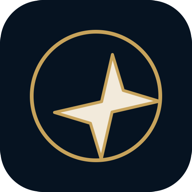
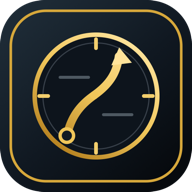
feat: personalize Reha-Kompass release candidate

Changed region(s): [[0.1562, 0.1562, 0.8438, 0.8438], [0.0, 0.0, 1.0, 1.0], [0.3125, 0.375, 0.4688, 0.4375]]

diff --git a/public/styles.css b/public/styles.css
@@ -1,20 +1,20 @@
 :root {
   color-scheme: dark;
-  --ink: #020b15;
-  --navy: #041524;
-  --blue: #08223a;
-  --blue-2: #0d2e4b;
-  --panel: #092239;
-  --panel-soft: #0d2a43;
-  --gold: #d2aa55;
-  --gold-bright: #f0d58f;
-  --ivory: #f4eee2;
-  --muted: #aeb9c4;
-  --line: rgba(210, 170, 85, .62);
-  --soft-line: rgba(210, 170, 85, .25);
+  --ink: #070a0e;
+  --navy: #0d141c;
+  --blue: #14202a;
+  --blue-2: #1c2a35;
+  --panel: #111922;
+  --panel-soft: #18232d;
+  --gold: #d8a938;
+  --gold-bright: #ffdc73;
+  --ivory: #f5f0e6;
+  --muted: #b7bec6;
+  --line: rgba(225, 178, 65, .82);
+  --soft-line: rgba(225, 178, 65, .34);
   --ok: #9dc8ae;
   --danger: #efadad;
-  --focus: #fff0b9;
+  --focus: #ffe9a3;
   --radius: 24px;
   --shadow: 0 24px 70px rgba(0, 0, 0, .34);
   font-family: Inter, ui-sans-serif, -apple-system, BlinkMacSystemFont, "Segoe UI", sans-serif;
@@ -22,8 +22,8 @@
 
 * { box-sizing: border-box; }
 html { scroll-behavior: smooth; }
-body { margin: 0; min-height: 100vh; min-height: 100dvh; background: radial-gradient(circle at 85% 0, rgba(24, 77, 118, .34), transparent 34rem), linear-gradient(180deg, #061827 0%, var(--ink) 70%); color: var(--ivory); }
-body::before { content: ""; position: fixed; inset: 0; pointer-events: none; opacity: .28; background: linear-gradient(90deg, transparent 49.8%, rgba(210,170,85,.08) 50%, transparent 50.2%); background-size: 96px 100%; }
+body { margin: 0; min-height: 100vh; min-height: 100dvh; background: radial-gradient(circle at 82% -8%, rgba(69, 91, 109, .36), transparent 33rem), radial-gradient(circle at 8% 32%, rgba(32, 49, 63, .28), transparent 28rem), linear-gradient(180deg, #101720 0%, var(--ink) 72%); color: var(--ivory); }
+body::before { content: ""; position: fixed; inset: 0; pointer-events: none; opacity: .32; background: linear-gradient(90deg, transparent 49.8%, rgba(225,178,65,.09) 50%, transparent 50.2%); background-size: 96px 100%; }
 button, input, textarea, select { font: inherit; }
 button, a { -webkit-tap-highlight-color: transparent; }
 button { cursor: pointer; }
@@ -35,10 +35,15 @@ a { color: inherit; }
 .offline-banner { position: fixed; inset: 0 0 auto; z-index: 100; padding: 8px 16px; background: var(--gold); color: var(--ink); text-align: center; font-weight: 700; }
 
 .lock-screen { min-height: 100vh; min-height: 100dvh; display: grid; place-items: center; padding: calc(24px + env(safe-area-inset-top)) max(24px, env(safe-area-inset-right)) calc(24px + env(safe-area-inset-bottom)) max(24px, env(safe-area-inset-left)); }
-.lock-card { width: min(540px, 100%); padding: clamp(28px, 6vw, 56px); background: linear-gradient(145deg, #102e48, #041522); box-shadow: var(--shadow); }
-.gold-frame { position: relative; border: 1.5px solid var(--gold); border-radius: 34px; }
-.gold-frame::after { content: ""; position: absolute; inset: 8px; border: 1px solid rgba(240, 213, 143, .13); border-radius: 26px; pointer-events: none; }
-.brand-mark { width: 48px; height: 48px; display: grid; place-items: center; border: 1px solid var(--gold); border-radius: 50%; color: var(--gold-bright); flex: 0 0 auto; }
+.lock-card { width: min(560px, 100%); padding: clamp(28px, 6vw, 56px); background: linear-gradient(145deg, #1b2732, #0b1016 72%); box-shadow: 0 30px 90px rgba(0, 0, 0, .48), 0 0 38px rgba(216, 169, 56, .1); }
+.gold-frame { position: relative; border: 1.75px solid var(--gold); border-radius: 34px; }
+.gold-frame::after { content: ""; position: absolute; inset: 8px; border: 1px solid rgba(255, 220, 115, .2); border-radius: 26px; pointer-events: none; }
+.brand-signature { display: flex; align-items: center; gap: 15px; margin-bottom: 24px; }
+.brand-signature span, .brand-signature strong, .brand-signature small { display: block; }
+.brand-signature strong { color: var(--gold-bright); text-transform: uppercase; letter-spacing: .14em; font-size: .8rem; }
+.brand-signature small { margin-top: 5px; color: var(--muted); font-size: .76rem; }
+.brand-logo { width: 42px; height: 42px; display: block; flex: 0 0 auto; border-radius: 11px; box-shadow: 0 0 18px rgba(216, 169, 56, .16); }
+.brand-logo-large { width: 64px; height: 64px; border-radius: 16px; }
 .lock-card h1 { margin: 16px 0; font-size: clamp(2.2rem, 7vw, 4rem); letter-spacing: -.05em; }
 .lock-card p { color: var(--muted); line-height: 1.6; }
 .passkey-button { min-height: 58px; margin-top: 24px; }
@@ -48,10 +53,9 @@ a { color: inherit; }
 .code-fallback[open] summary { color: var(--ivory); }
 
 .app-shell { width: min(1240px, 100%); margin: 0 auto; padding: 0 max(26px, env(safe-area-inset-right)) calc(112px + env(safe-area-inset-bottom)) max(26px, env(safe-area-inset-left)); }
-.topbar { min-height: calc(82px + env(safe-area-inset-top)); padding-top: env(safe-area-inset-top); display: flex; align-items: center; justify-content: space-between; gap: 20px; position: sticky; top: 0; z-index: 30; border-bottom: 1px solid var(--line); background: rgba(2, 11, 21, .95); }
+.topbar { min-height: calc(82px + env(safe-area-inset-top)); padding-top: env(safe-area-inset-top); display: flex; align-items: center; justify-content: space-between; gap: 20px; position: sticky; top: 0; z-index: 30; border-bottom: 1px solid var(--line); background: rgba(7, 10, 14, .96); backdrop-filter: saturate(120%) blur(10px); }
 .brand { display: flex; align-items: center; gap: 12px; text-decoration: none; }
-.brand .brand-mark { width: 38px; height: 38px; }
-.brand strong { display: block; text-transform: uppercase; letter-spacing: .13em; font-size: .82rem; }
+.brand strong { display: block; color: var(--gold-bright); text-transform: uppercase; letter-spacing: .14em; font-size: .82rem; }
 .brand small { display: block; margin-top: 4px; color: var(--muted); }
 .desktop-nav { display: flex; gap: 4px; }
 .desktop-nav a, .bottom-nav a { text-decoration: none; color: var(--muted); border-radius: 999px; padding: 10px 12px; }
@@ -62,19 +66,19 @@ a { color: inherit; }
 .view.active { display: block; }
 @keyframes reveal { from { opacity: 0; transform: translateY(7px); } to { opacity: 1; transform: none; } }
 .page-head { display: flex; justify-content: space-between; align-items: end; gap: 24px; padding: 50px 0 28px; border-bottom: 1px solid var(--soft-line); }
-.page-head h1 { margin: 0; max-width: 780px; font-size: clamp(2.3rem, 6vw, 5.2rem); line-height: .98; letter-spacing: -.055em; }
+.page-head h1 { margin: 0; max-width: 780px; color: var(--gold-bright); font-size: clamp(2.3rem, 6vw, 5.2rem); line-height: .98; letter-spacing: -.055em; }
 .page-intro { max-width: 760px; margin: 16px 0 0; color: var(--muted); font-size: 1.02rem; line-height: 1.6; }
 .eyebrow, .kicker { margin: 0 0 12px; color: var(--gold-bright); text-transform: uppercase; letter-spacing: .17em; font-size: .72rem; font-weight: 750; }
 .subline, .privacy, .card p { color: var(--muted); line-height: 1.55; }
 .privacy { font-size: .78rem; }
 
-.compass { margin: 28px 0 22px; padding: clamp(28px, 5vw, 56px); overflow: hidden; background: linear-gradient(145deg, #163b5c 0%, #09243b 50%, #03111f 100%); box-shadow: var(--shadow); }
+.compass { margin: 28px 0 22px; padding: clamp(28px, 5vw, 56px); overflow: hidden; background: linear-gradient(145deg, #22313d 0%, #121c25 50%, #090d12 100%); box-shadow: 0 28px 80px rgba(0,0,0,.42), 0 0 36px rgba(216,169,56,.09); }
 .compass h1 { margin: 0; max-width: 860px; font-size: clamp(2.4rem, 6vw, 5.2rem); line-height: 1.04; letter-spacing: -.055em; }
 .compass-actions { position: relative; z-index: 2; display: flex; flex-wrap: wrap; gap: 9px; margin-top: 30px; }
 .chip { border: 1px solid rgba(210,170,85,.55); border-radius: 999px; padding: 11px 16px; background: transparent; color: var(--ivory); }
 .chip:hover, .chip.active { background: var(--gold); color: var(--ink); font-weight: 800; }
 
-.card { position: relative; padding: 25px; border: 1.25px solid var(--line); border-radius: var(--radius); background: linear-gradient(145deg, rgba(14, 45, 71, .98), rgba(5, 22, 37, .98)); box-shadow: inset 0 0 0 7px rgba(2, 11, 21, .26), var(--shadow); }
+.card { position: relative; padding: 25px; border: 1.5px solid var(--line); border-radius: var(--radius); background: linear-gradient(145deg, rgba(27, 39, 50, .99), rgba(12, 18, 25, .99)); box-shadow: inset 0 0 0 6px rgba(5, 8, 12, .34), 0 22px 58px rgba(0,0,0,.34), 0 0 22px rgba(216,169,56,.055); }
 .card h2, .card h3 { margin: 0 0 10px; letter-spacing: -.03em; }
 .card h2 { font-size: clamp(1.4rem, 3vw, 2rem); }
 .compact-card { box-shadow: none; }
@@ -109,14 +113,16 @@ a { color: inherit; }
 .task-expanded p { margin: 0 0 8px; }
 .text-link { display: inline-flex; margin-top: 10px; color: var(--gold-bright); font-weight: 750; text-decoration-thickness: 1px; text-underline-offset: 4px; }
 .quick-tiles { display: grid; grid-template-columns: repeat(6, minmax(0, 1fr)); gap: 14px; margin-top: 20px; }
-.tile { min-height: 118px; display: flex; flex-direction: column; justify-content: center; padding: 18px; border: 1px solid var(--line); border-radius: 20px; background: rgba(6,25,41,.8); text-decoration: none; }
+.tile { min-height: 118px; display: flex; flex-direction: column; justify-content: center; padding: 18px; border: 1.5px solid var(--line); border-radius: 20px; background: linear-gradient(145deg, rgba(26,38,49,.96), rgba(11,16,22,.96)); box-shadow: inset 0 0 0 4px rgba(255,220,115,.035), 0 12px 30px rgba(0,0,0,.26); text-decoration: none; transition: border-color .2s ease, transform .2s ease, box-shadow .2s ease; }
+.tile:hover { border-color: var(--gold-bright); transform: translateY(-2px); box-shadow: inset 0 0 0 4px rgba(255,220,115,.055), 0 16px 36px rgba(0,0,0,.32), 0 0 22px rgba(216,169,56,.12); }
+.tile-featured { border-color: var(--gold-bright); background: linear-gradient(145deg, rgba(47,55,57,.98), rgba(16,22,28,.98)); }
 .tile > span { color: var(--gold-bright); font-size: 1.3rem; }
 .tile strong { margin: 7px 0 3px; }
 .tile small { color: var(--muted); }
 
 .journey-page-head { align-items: end; }
 .journey-summary-grid { display: grid; grid-template-columns: 1.35fr .65fr; gap: 20px; margin-top: 24px; }
-.journey-status-card { overflow: hidden; padding: clamp(26px, 4vw, 42px); background: linear-gradient(145deg, rgba(24,66,99,.98), rgba(5,22,37,.98)); }
+.journey-status-card { overflow: hidden; padding: clamp(26px, 4vw, 42px); background: linear-gradient(145deg, rgba(36,51,62,.99), rgba(12,18,24,.99)); }
 .journey-status-card h2 { max-width: 720px; font-size: clamp(2rem, 4.2vw, 3.7rem); }
 .journey-stats { position: relative; z-index: 1; display: grid; grid-template-columns: repeat(4, minmax(0, 1fr)); gap: 10px; margin-top: 24px; }
 .journey-stat { min-height: 86px; padding: 13px; border: 1px solid var(--soft-line); border-radius: 16px; background: rgba(2,11,21,.3); }
@@ -177,7 +183,7 @@ a { color: inherit; }
 .local-summary-grid { display: grid; grid-template-columns: 1.2fr .8fr; gap: 20px; margin-top: 24px; }
 .guide-controls { display: grid; grid-template-columns: repeat(3, minmax(0, 1fr)); gap: 12px; }
 .guide-reset { margin-top: 18px; }
-.mobility-summary { background: linear-gradient(145deg, rgba(24, 61, 91, .98), rgba(6, 24, 40, .98)); }
+.mobility-summary { background: linear-gradient(145deg, rgba(35, 49, 60, .99), rgba(12, 18, 24, .99)); }
 .local-stat { display: grid; grid-template-columns: minmax(90px, auto) 1fr; gap: 12px; align-items: baseline; padding: 13px 0; border-top: 1px solid rgba(255,255,255,.08); }
 .local-stat strong { color: var(--gold-bright); font-size: 1.05rem; }
 .local-stat span { color: var(--muted); line-height: 1.45; }
@@ -225,9 +231,9 @@ a { color: inherit; }
 .compass-list a { color: var(--gold-bright); font-size: .8rem; }
 
 .more-overview-grid { display: grid; grid-template-columns: repeat(4, minmax(0, 1fr)); gap: 14px; }
-.more-hub-card { min-height: 180px; display: flex; flex-direction: column; align-items: start; justify-content: center; padding: 20px; border: 1px solid var(--soft-line); border-radius: 20px; background: rgba(6,25,41,.8); color: var(--ivory); text-align: left; text-decoration: none; }
+.more-hub-card { min-height: 180px; display: flex; flex-direction: column; align-items: start; justify-content: center; padding: 20px; border: 1.5px solid var(--line); border-radius: 20px; background: linear-gradient(145deg, rgba(26,38,49,.96), rgba(11,16,22,.96)); color: var(--ivory); text-align: left; text-decoration: none; }
 .more-hub-card:hover { border-color: var(--gold); background: rgba(210,170,85,.09); }
-.more-hub-card.featured { border-color: var(--gold); background: linear-gradient(145deg, rgba(23,62,93,.96), rgba(6,25,41,.96)); }
+.more-hub-card.featured { border-color: var(--gold-bright); background: linear-gradient(145deg, rgba(47,55,57,.98), rgba(16,22,28,.98)); }
 .more-hub-card > span { color: var(--gold-bright); font-size: 1.35rem; }
 .more-hub-card strong { margin: 9px 0 5px; font-size: 1.05rem; }
 .more-hub-card small { color: var(--muted); line-height: 1.4; }
@@ -357,7 +363,7 @@ textarea.field { resize: vertical; }
   .scan-event { grid-template-columns: auto 1fr; }
   .scan-event > * { grid-column: 2; }
   .scan-event > input[type="checkbox"] { grid-column: 1; grid-row: 1 / span 5; }
-  .bottom-nav { display: grid; grid-template-columns: repeat(5, 1fr); align-items: center; position: fixed; inset: auto 0 0; z-index: 50; padding: 8px max(8px, env(safe-area-inset-right)) calc(8px + env(safe-area-inset-bottom)) max(8px, env(safe-area-inset-left)); border-top: 1px solid var(--line); background: rgba(2,11,21,.98); }
+  .bottom-nav { display: grid; grid-template-columns: repeat(5, 1fr); align-items: center; position: fixed; inset: auto 0 0; z-index: 50; padding: 8px max(8px, env(safe-area-inset-right)) calc(8px + env(safe-area-inset-bottom)) max(8px, env(safe-area-inset-left)); border-top: 1px solid var(--line); background: rgba(7,10,14,.98); }
   .bottom-nav a { padding: 10px 2px; text-align: center; font-size: .72rem; }
   .bottom-nav button { width: 48px; height: 48px; justify-self: center; margin-top: -22px; border: 1px solid var(--gold); border-radius: 50%; background: var(--gold); color: var(--ink); font-size: 1.6rem; }
   .toast { right: 14px; left: 14px; bottom: 92px; }

diff --git a/public/index.html b/public/index.html
@@ -3,13 +3,14 @@
 <head>
   <meta charset="utf-8">
   <meta name="viewport" content="width=device-width,initial-scale=1,viewport-fit=cover">
-  <meta name="theme-color" content="#03101d">
+  <meta name="theme-color" content="#0a0e13">
   <meta name="apple-mobile-web-app-capable" content="yes">
   <meta name="apple-mobile-web-app-status-bar-style" content="black-translucent">
+  <meta name="apple-mobile-web-app-title" content="Reha-Kompass">
   <meta name="description" content="Geschützter persönlicher Reha-Kompass">
   <link rel="manifest" href="/manifest.webmanifest">
   <link rel="icon" href="/icon.svg" type="image/svg+xml">
-  <link rel="apple-touch-icon" href="/icon-192.png">
+  <link rel="apple-touch-icon" sizes="180x180" href="/icon-180.png">
   <link rel="stylesheet" href="/styles.css">
   <title>Olafs Reha-Kompass</title>
 </head>
@@ -19,7 +20,10 @@
 
   <section class="lock-screen" id="lockScreen" aria-labelledby="lockTitle">
     <div class="lock-card gold-frame">
-      <div class="brand-mark" aria-hidden="true">✦</div>
+      <div class="brand-signature">
+        <img class="brand-logo brand-logo-large" src="/icon.svg" alt="">
+        <span><strong>Olaf Tiehen</strong><small>Persönlicher Reha-Kompass</small></span>
+      </div>
       <p class="eyebrow">Geschützter persönlicher Pilot</p>
       <h1 id="lockTitle">Persönlichen Zugang bestätigen</h1>
       <p id="authIntro">Öffne Olafs Reha-Kompass sicher mit Face ID, Touch ID oder dem Gerätecode. Auf einem bestätigten Gerät bleibt die persönliche Sitzung anschließend erhalten.</p>
@@ -41,9 +45,9 @@
 
   <div class="app-shell" id="appShell" hidden>
     <header class="topbar">
-      <a class="brand" href="#/heute" aria-label="Olafs Kompass – Heute">
-        <span class="brand-mark" aria-hidden="true">✦</span>
-        <span><strong>Olafs Kompass</strong><small>Persönlicher Reha-Bereich</small></span>
+      <a class="brand" href="#/heute" aria-label="Olaf Tiehen Reha-Kompass – Heute">
+        <img class="brand-logo" src="/icon.svg" alt="">
+        <span><strong>Olaf Tiehen</strong><small>Persönlicher Reha-Kompass</small></span>
       </a>
       <nav class="desktop-nav" aria-label="Hauptnavigation">
         <a data-route="heute" href="#/heute">Heute</a>

diff --git a/test/integration/server.test.js b/test/integration/server.test.js
@@ -119,6 +119,29 @@ async function fixture() {
   return { app, dataDir };
 }
 
+test("local HTTP assets stay usable while production keeps HTTPS enforcement", async t => {
+  const localDataDir = await fs.mkdtemp(path.join(os.tmpdir(), "rehakompass-local-headers-"));
+  const productionDataDir = await fs.mkdtemp(path.join(os.tmpdir(), "rehakompass-production-headers-"));
+  t.after(() => Promise.all([
+    fs.rm(localDataDir, { recursive: true, force: true }),
+    fs.rm(productionDataDir, { recursive: true, force: true })
+  ]));
+
+  const localApp = await createApp({
+    env: { NODE_ENV: "development", COOKIE_SECURE: "false", APP_ACCESS_CODE: "synthetic-access-code", DATA_DIR: localDataDir },
+    push: pushFixture(false),
+    publicDir: "public"
+  });
+  const localAsset = await request(localApp).get("/styles.css").expect(200);
+  assert.doesNotMatch(localAsset.headers["content-security-policy"], /upgrade-insecure-requests/);
+  assert.equal(localAsset.headers["strict-transport-security"], undefined);
+
+  const productionApp = await createApp({ env: productionEnvironment(productionDataDir), push: pushFixture(), publicDir: "public" });
+  const productionAsset = await request(productionApp).get("/styles.css").expect(200);
+  assert.match(productionAsset.headers["content-security-policy"], /upgrade-insecure-requests/);
+  assert.match(productionAsset.headers["strict-transport-security"], /max-age=/);
+});
+
 test("protected session, encrypted sync and document archive enforce access", async t => {
   const { app, dataDir } = await fixture();
   t.after(() => fs.rm(dataDir, { recursive: true, force: true }));

diff --git a/src/server/app.js b/src/server/app.js
@@ -80,6 +80,7 @@ function deriveVaultKeyMaterial(accessCode, saltBase64) {
 export async function createApp(options = {}) {
   const env = options.env || process.env;
   validateRuntimeConfiguration(env);
+  const productionSecurity = env.NODE_ENV === "production";
   const accessCode = String(env.APP_ACCESS_CODE || "");
   const allowAccessCodeLogin = env.ALLOW_ACCESS_CODE_LOGIN !== "false";
   const secureCookies = env.NODE_ENV !== "test" && env.COOKIE_SECURE !== "false";
@@ -135,10 +136,12 @@ export async function createApp(options = {}) {
         objectSrc: ["'none'"],
         baseUri: ["'self'"],
         formAction: ["'self'"],
-        frameAncestors: ["'none'"]
+        frameAncestors: ["'none'"],
+        upgradeInsecureRequests: productionSecurity ? [] : null
       }
     },
     crossOriginEmbedderPolicy: false,
+    strictTransportSecurity: productionSecurity,
     referrerPolicy: { policy: "no-referrer" }
   }));
   app.use((_req, res, next) => {

diff --git a/public/sw.js b/public/sw.js
@@ -1,10 +1,11 @@
-const CACHE = "olafs-reha-kompass-v1.0.0-workbench-4";
+const CACHE = "olafs-reha-kompass-v1.0.0-workbench-5";
 const APP_SHELL = [
   "/",
   "/index.html",
   "/styles.css",
   "/manifest.webmanifest",
   "/icon.svg",
+  "/icon-180.png",
   "/icon-192.png",
   "/icon-512.png",
   "/js/app.js",
